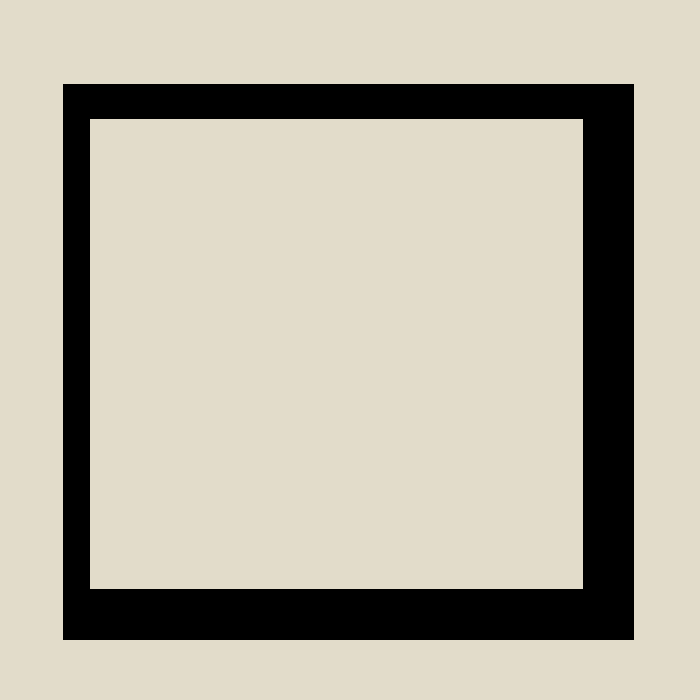
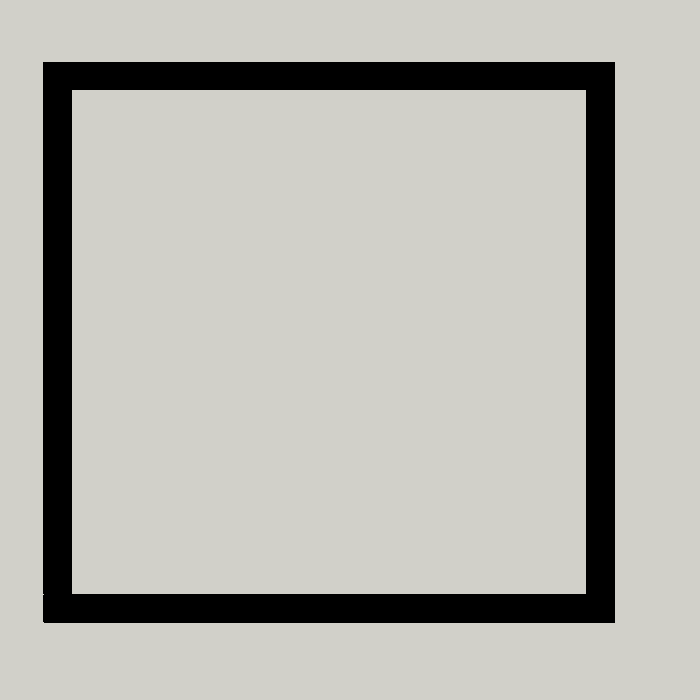
fixed empty circle and empty rect styling

Changed region(s): [[0.06, 0.09, 0.93, 0.93]]

diff --git a/static/style.css b/static/style.css
@@ -147,14 +147,12 @@ body {
     background-repeat: no-repeat;
 
 }
-.rect.nonfilled {
-    background-image: url(/static/rect.png);
-    background-size: 200px 200px;
-    background-position: -52px -142px;
-    background-repeat: no-repeat;
-}
 .rect {
     background-image: url(/static/rect.png);
+    background-repeat: no-repeat;
+}
+.rect.filled{
+    background-image: url(/static/rect.filled.png);
     background-repeat: no-repeat;
 }
 
@@ -165,10 +163,14 @@ body {
     background-repeat: no-repeat;
 }
 .circle {
-    background-image: url(/static/icons.png);
-    background-size: 200px 200px;
-    background-position: -97px -5px;
-    background-repeat: no-repeat;}
+    background-image: url(/static/circle.png);
+    background-repeat: no-repeat;
+}
+.circle.filled {
+    background-image: url(/static/circle.filled.png);
+    background-repeat: no-repeat;
+}
+
 .dropper, .cursor_size {
     background-image: url(/static/icons2.png);
     background-size: 200px 200px;

diff --git a/src/ts/styletogglers.ts b/src/ts/styletogglers.ts
@@ -26,7 +26,10 @@ export class FillStyleToggler extends OnSelectTool {
     }
     select_action() {
         this.app.settings.filled = !this.app.settings.filled;
-        document.getElementsByClassName('fillstyle')[0].classList.toggle('filled')
+        const styled_buttons = document.getElementsByClassName('fillable')
+        for (let j = 0; j < styled_buttons.length; ++j) {
+            styled_buttons[j].classList.toggle('filled')
+        }
     }
 
 

diff --git a/templates/main_screen.html b/templates/main_screen.html
@@ -12,11 +12,11 @@
 
             <div class="scribble button"></div>
             <!-- 1 -->
-            <div class="rect button"></div>
+            <div class="rect button filled fillable"></div>
 
             <div class="line button"></div>
             <!-- 2 -->
-            <div class="circle button"></div>
+            <div class="circle button filled fillable"></div>
 
             <div class="dropper button"></div>
             <!-- 3 -->
